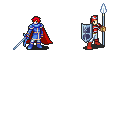
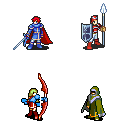
New units and actions added

Changed region(s): [[0.1562, 0.5625, 0.375, 0.9688], [0.625, 0.6562, 0.8438, 0.9688]]

diff --git a/Classes/Action.cpp b/Classes/Action.cpp
@@ -33,7 +33,14 @@ Action::Action(int anId, UnitModel* unit) {
             _cost = 2;
             _targetType = TARGET_UNIT;
             break;
-			
+        case ACTION_BURN:
+            _cost = 4;
+            _targetType = TARGET_UNIT;
+            break;
+        case ACTION_GALE:
+            _cost = 2;
+            _targetType = TARGET_UNIT;
+            break;
 		default:
 			_cost = 0;
 	}
@@ -53,6 +60,10 @@ void Action::doIt(const ActionState& statePoint) {
                 break;
             case ACTION_FIRE:
                 _unit->fire(statePoint.pos);
+                break;
+            case ACTION_BURN:
+                break;
+            case ACTION_GALE:
                 break;
                 
             default:
@@ -87,6 +98,11 @@ bool Action::isAvailableToUnit(UnitModel* targetUnit) {
             return (distance == 1);
         case ACTION_FIRE:
             return (distance > 0 && distance <= 2);
+        case ACTION_BURN:
+            return (distance > 1 && distance <= 3);
+        case ACTION_GALE:
+            return (distance == 1);
+
 		default:
 			return false;
 	}

diff --git a/Classes/CentralControl.cpp b/Classes/CentralControl.cpp
@@ -58,6 +58,8 @@ CentralControl::CentralControl() {
     _unitFactory->produceAndRegisterUnit("swordsman", 1, MPointMake(0, 0), GEOM_DIR_E);
     //_unitFactory->produceAndRegisterUnit("soldier", 1, MPointMake(0, 1), GEOM_DIR_E);
     _unitFactory->produceAndRegisterUnit("soldier", 2, MPointMake(1, 0), GEOM_DIR_W);
+    _unitFactory->produceAndRegisterUnit("archer", 2, MPointMake(0, 1), GEOM_DIR_W);
+    _unitFactory->produceAndRegisterUnit("channeler", 2, MPointMake(1, 2), GEOM_DIR_W);
     
     std::cout << "Finished launching" << std::endl;
 }

diff --git a/Classes/UnitFactory.cpp b/Classes/UnitFactory.cpp
@@ -35,6 +35,9 @@ void UnitFactory::produceAndRegisterUnit(const std::string& unitClass, int owner
     } else if (unitClass == "archer") {
         hp = 2; ap = 3; power = 2; skill = 3; defense = 1; image = 2;
         actions.push_back(ACTION_MOVE); actions.push_back(ACTION_FIRE);
+    } else if (unitClass == "channeler") {
+        hp = 2; ap = 3; power = 2; skill = 3; defense = 1; image = 3;
+        actions.push_back(ACTION_MOVE); actions.push_back(ACTION_BURN); actions.push_back(ACTION_GALE);
     } else {
         return;
     }

diff --git a/Classes/Action.h b/Classes/Action.h
@@ -19,6 +19,8 @@
 #define ACTION_MOVE 0
 #define ACTION_STRIKE 1
 #define ACTION_FIRE 2
+#define ACTION_GALE 3
+#define ACTION_BURN 4
 
 #define TARGET_HEX 1
 #define TARGET_UNIT 2
